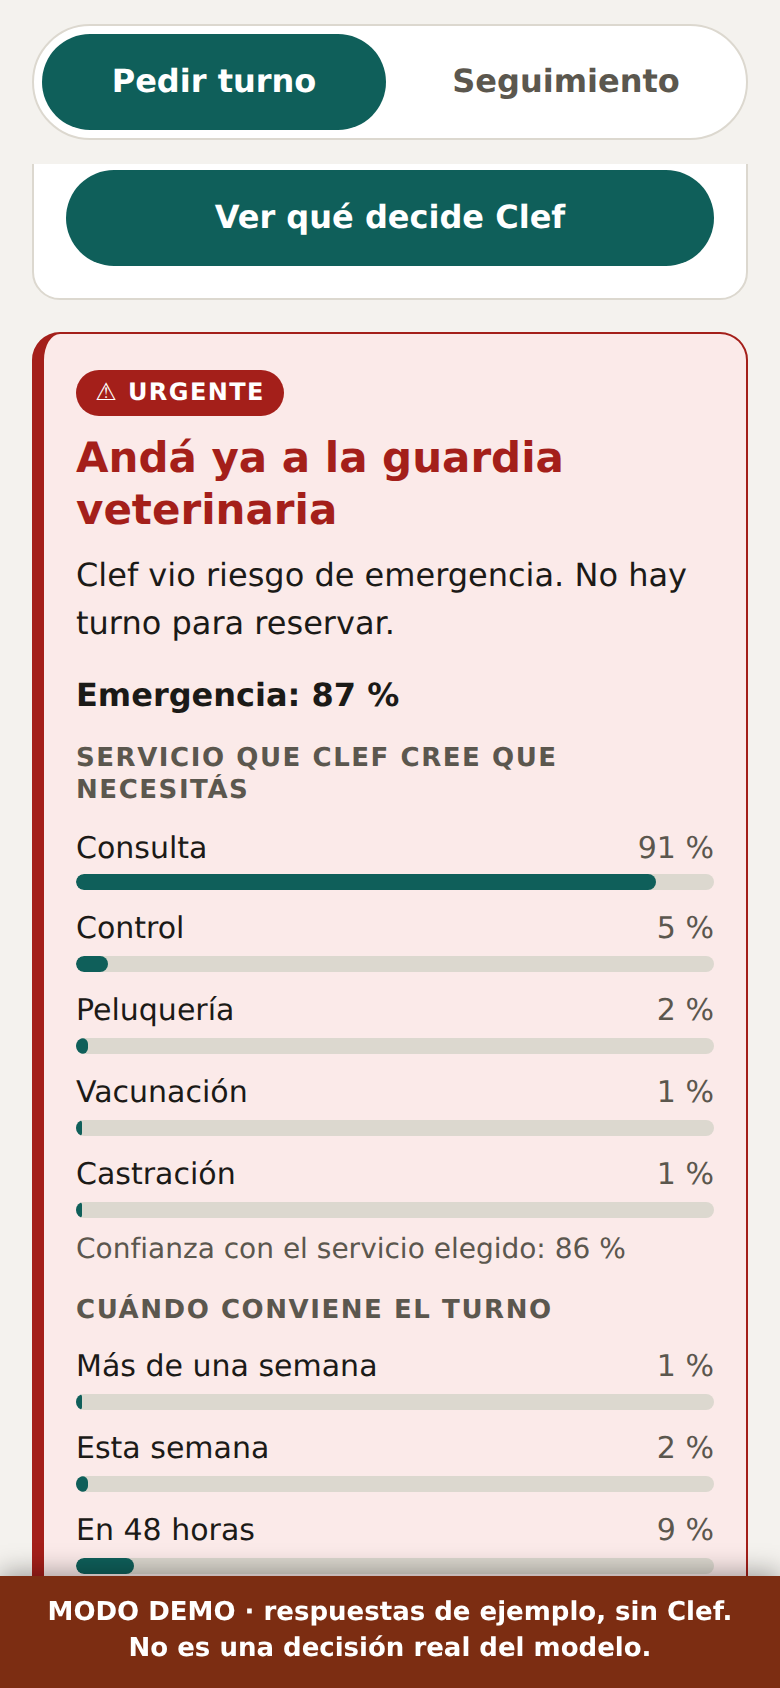
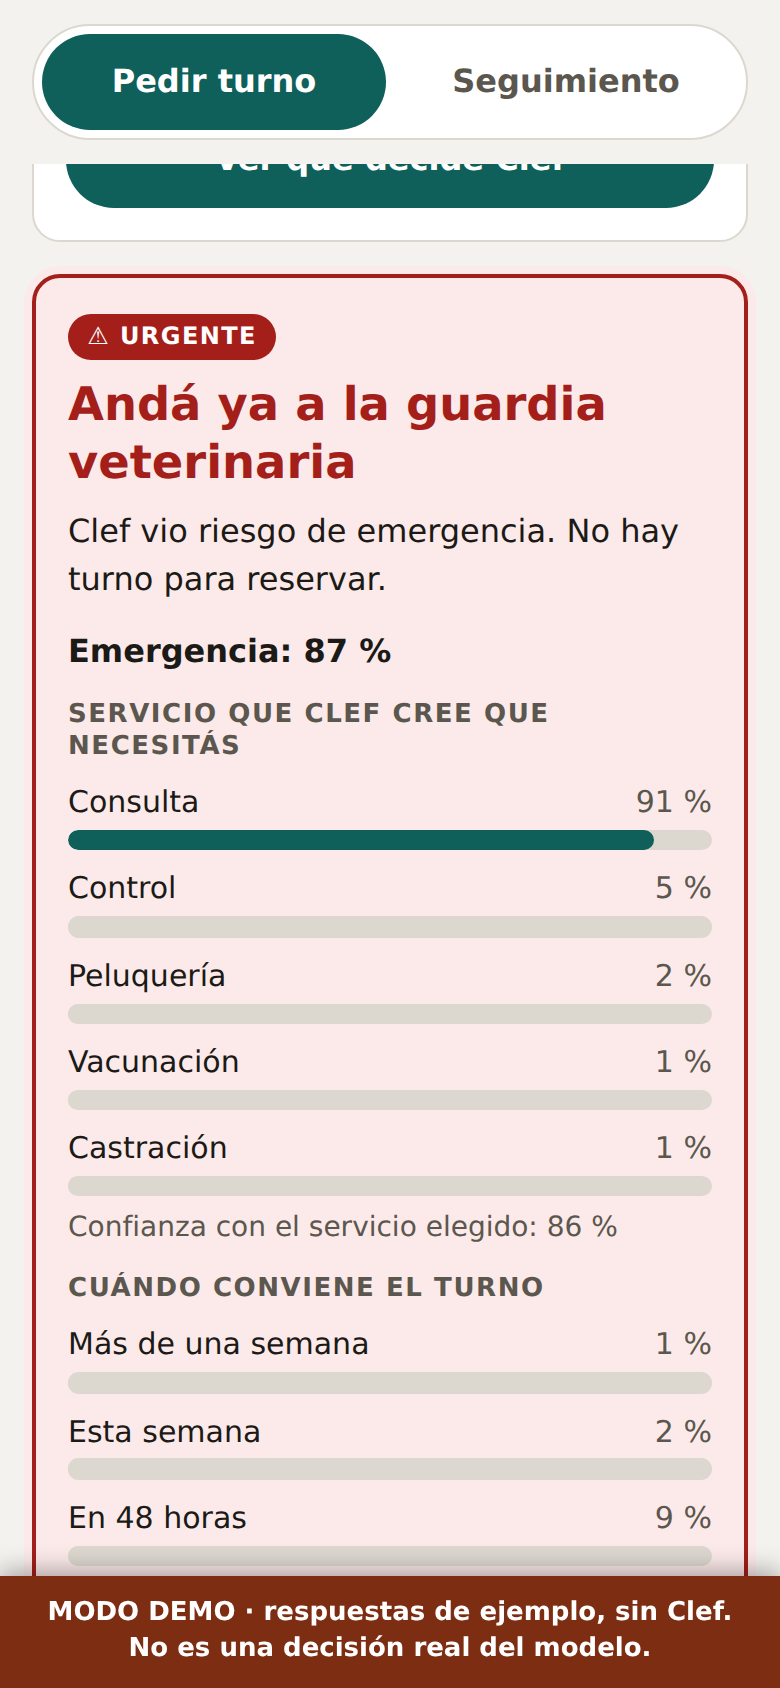
feat(ui): emphasize the demo beats - emergency screen, override, loading note, probability bars
- callout-danger: thicker frame, halo, larger title (S4)
- override: danger tones and the change in bold (S7)
- probability bars below a quarter of the top value fall back to the muted
  track color, so magnitude reads at a glance (S8)
- loading sentence split into heading + note
- drop the temporary clef-debug logging from src/clef.js
- regenerate the five captures

Changed region(s): [[0.0308, 0.0924, 0.9846, 0.955]]

diff --git a/public/app.js b/public/app.js
@@ -384,12 +384,19 @@ function probabilityList(title, rows) {
   const section = element('section', 'probs');
   section.append(element('h3', 'probs-title', title));
   const list = element('ul', 'probs-list');
+  // S8 demo beat: the dominant bar keeps the accent; everything below a
+  // quarter falls back to the muted track color, so magnitude reads at a
+  // glance instead of ten identical bars.
+  const top = Math.max(0, ...rows.map((row) => row.percent));
   for (const row of rows) {
     const item = element('li', 'prob');
     const bar = element('span', 'prob-bar');
     bar.setAttribute('aria-hidden', 'true');
     const fillBar = element('span', 'prob-fill');
     fillBar.style.width = `${row.percent}%`;
+    if (row.percent < 25 || (top >= 25 && row.percent < top * 0.4)) {
+      fillBar.classList.add('is-low');
+    }
     bar.append(fillBar);
     item.append(element('span', 'prob-label', row.label));
     item.append(element('span', 'prob-value', `${row.percent} %`));
@@ -491,11 +498,16 @@ function followupProbabilityNodes(probabilities) {
 function overrideExplanation(overridden) {
   const from = SERVICE_LABEL.get(overridden?.from) ?? 'ese servicio';
   const to = SERVICE_LABEL.get(overridden?.to) ?? 'consulta';
-  return element(
-    'p',
-    'override',
-    `Clef cambió el servicio: ${from} → ${to}. Un pedido de peluquería con señales de salud pasa siempre a consulta con el veterinario.`,
+  const note = element('p', 'override');
+  // S7 demo beat: the override is the strongest product statement the app
+  // makes — the model said one thing and the safety rule won. It gets the
+  // emphasis, in its own words.
+  const strong = element('strong', null, `Clef cambió el servicio: ${from} → ${to}.`);
+  note.append(
+    strong,
+    ' Un pedido de peluquería con señales de salud pasa siempre a consulta con el veterinario.',
   );
+  return note;
 }
 
 function bookingNodes({ serviceId, booking, preferToday, overridden, probabilities, chosenByOwner }) {
@@ -870,7 +882,10 @@ async function handleTriageSubmit(event) {
   const container = byId('triage-result');
   setBusy(button, true, TRIAGE_BUTTON_LABEL);
   container.setAttribute('aria-busy', 'true');
-  fill(container, [element('p', 'loading', 'Clef está pensando. Puede tardar unos segundos.')]);
+  const loading = element('p', 'loading', 'Clef está pensando.');
+  const loadingNote = element('span', 'loading-note', 'Puede tardar unos segundos.');
+  loading.append(loadingNote);
+  fill(container, [loading]);
 
   try {
     const payload = await postJson('/api/triage', { species, age, message });
@@ -917,7 +932,10 @@ async function handleFollowupSubmit(event) {
   const container = byId('followup-result');
   setBusy(button, true, FOLLOWUP_BUTTON_LABEL);
   container.setAttribute('aria-busy', 'true');
-  fill(container, [element('p', 'loading', 'Clef está pensando. Puede tardar unos segundos.')]);
+  const loading = element('p', 'loading', 'Clef está pensando.');
+  const loadingNote = element('span', 'loading-note', 'Puede tardar unos segundos.');
+  loading.append(loadingNote);
+  fill(container, [loading]);
 
   try {
     const payload = await postJson('/api/followup', { plan, day, report });

diff --git a/public/styles.css b/public/styles.css
@@ -356,6 +356,10 @@ textarea.input {
 .callout-danger {
   background: var(--danger-soft);
   border-color: var(--danger);
+  /* S4 demo beat: the emergency screen must be unmistakable, also in a
+     screenshot. A thicker frame and a halo do that without changing text. */
+  border-width: 2px;
+  box-shadow: 0 0 0 4px var(--danger-soft);
 }
 
 .callout-danger .callout-badge {
@@ -365,6 +369,8 @@ textarea.input {
 
 .callout-danger .callout-title {
   color: var(--danger);
+  font-size: 1.45rem;
+  line-height: 1.25;
 }
 
 .callout-warn {
@@ -411,11 +417,16 @@ textarea.input {
 
 .override {
   margin: 0 0 0.75rem;
-  padding: 0.65rem 0.75rem;
-  background: var(--surface);
-  border-left: 3px solid var(--accent);
+  padding: 0.75rem 0.85rem;
+  background: var(--danger-soft);
+  border: 1px solid var(--danger);
+  border-left-width: 4px;
   border-radius: 8px;
   font-size: 0.9375rem;
+}
+
+.override strong {
+  color: var(--danger);
 }
 
 .plan-echo {
@@ -497,7 +508,7 @@ textarea.input {
 .prob-bar {
   grid-column: 1 / -1;
   display: block;
-  height: 0.5rem;
+  height: 0.65rem;
   background: var(--line);
   border-radius: 999px;
   overflow: hidden;
@@ -508,6 +519,13 @@ textarea.input {
   height: 100%;
   background: var(--accent);
   border-radius: 999px;
+  transition: width 0.4s ease;
+}
+
+/* S8 demo beat: magnitude reads at a glance — the dominant bar keeps the
+   accent, the rest fall back to the muted line color. */
+.prob-fill.is-low {
+  background: var(--line);
 }
 
 /* -------------------------------------------------------------------- agenda */
